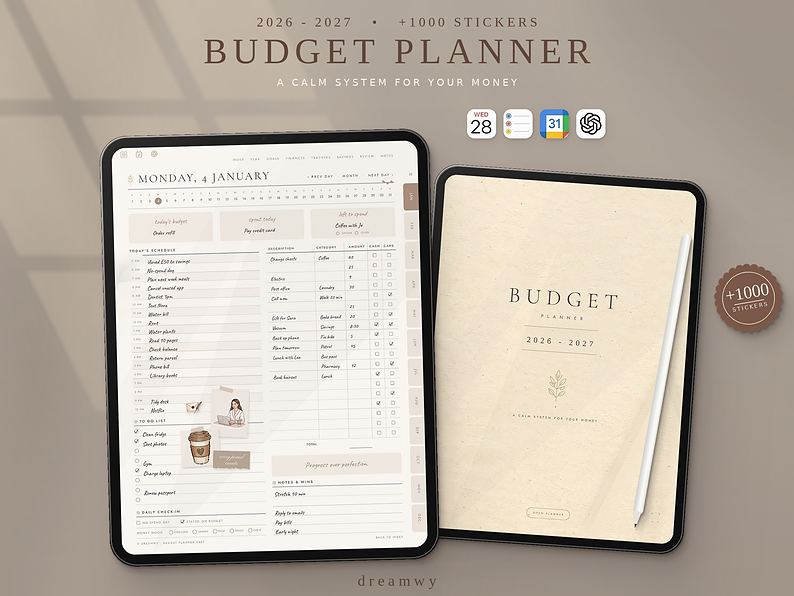
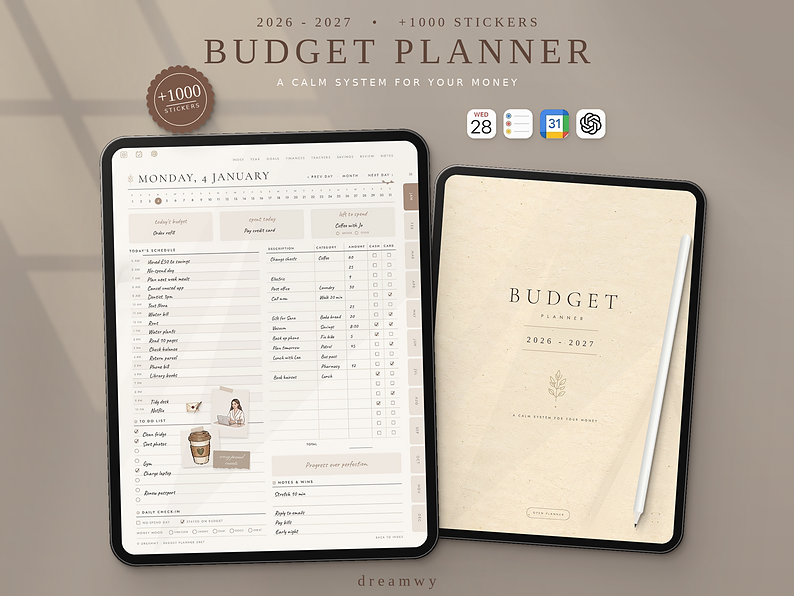
Budget mockup: sticker badge to the top-left, beside the subtitle
Claude-Session: https://claude.ai/code/session_015ZGVvYxuW9E1f2kNKHXQzt

Changed region(s): [[0.8766, 0.4228, 0.9975, 0.5738], [0.1814, 0.0906, 0.272, 0.2416]]

diff --git a/mockup/make_budget_mockup.py b/mockup/make_budget_mockup.py
@@ -290,7 +290,7 @@ canvas.alpha_composite(pen, (1905, 705))
 
 
 # "+1000 STICKERS" seal
-sx, sy, sr = 2262, 900, 97
+sx, sy, sr = 545, 300, 97
 seal = Image.new("RGBA", (sr * 2 + 40, sr * 2 + 40), (0, 0, 0, 0))
 sd = ImageDraw.Draw(seal)
 sc = sr + 20
